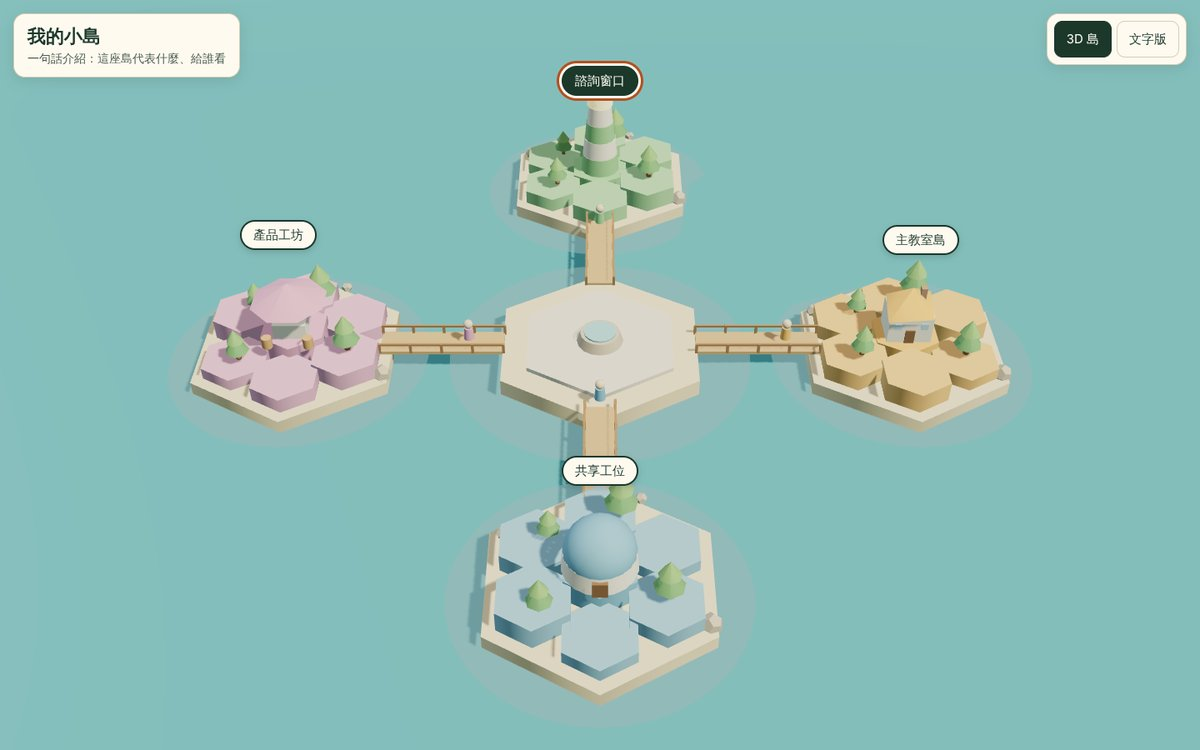
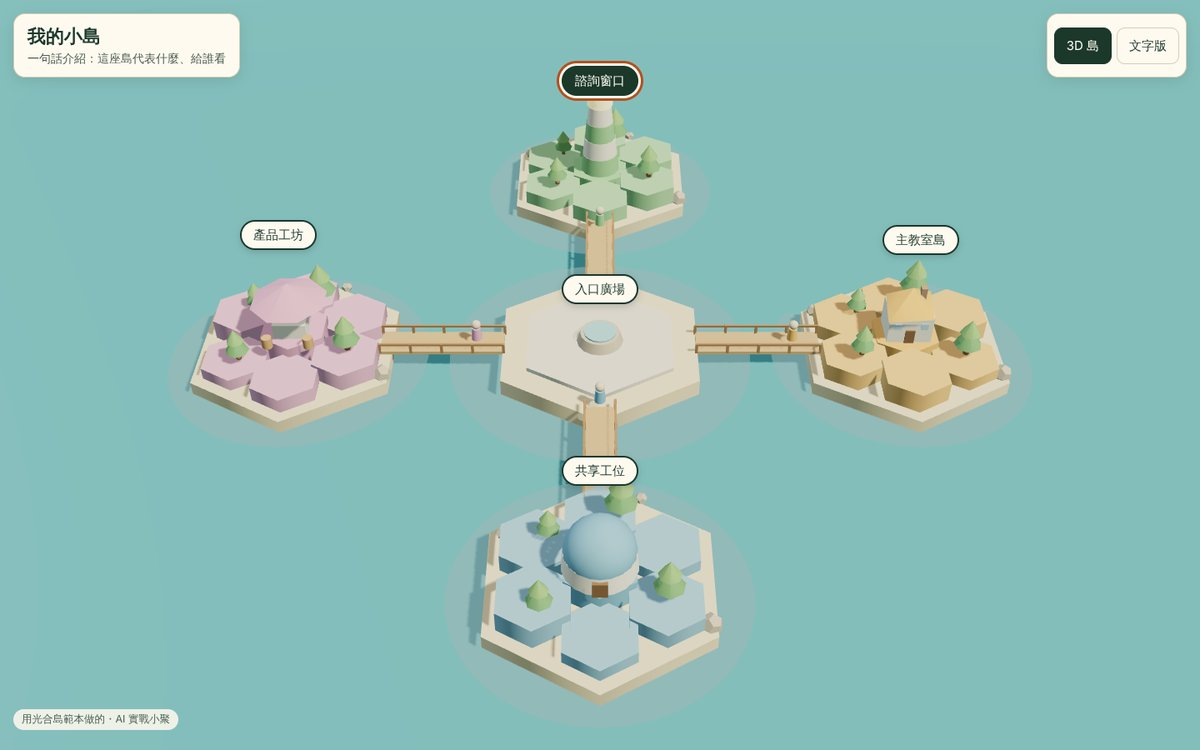
小島範本 Coco 審稿修正：中央廣場名牌、開場卡不擋島、小區塊膠囊、手機頂列同一列、出處小字
Claude-Session: https://claude.ai/code/session_014YgatbU5mzAn51EBKpoQ3J

diff --git a/範本/小島範本.html b/範本/小島範本.html
@@ -21,15 +21,17 @@ body{background:linear-gradient(#9fd3e6 0%,#cfeaf0 55%,#e9f4ee 100%)}
 .lab{position:absolute;transform:translate(-50%,-100%);background:var(--paper);color:var(--ink);border:2px solid var(--ink);border-radius:999px;padding:0 14px;font:700 14px/1 inherit;font-family:inherit;white-space:nowrap;pointer-events:auto;cursor:pointer;min-height:36px;min-width:44px;box-shadow:0 3px 8px rgba(20,40,30,.18)}
 .lab:hover,.lab:focus-visible,.lab.on{background:var(--ink);color:var(--paper);outline:none}
 .lab:focus-visible{box-shadow:0 0 0 3px var(--paper),0 0 0 6px var(--accent)}
-header{position:fixed;left:16px;top:16px;right:16px;display:flex;gap:10px;align-items:flex-start;flex-wrap:wrap;pointer-events:none}
+header{position:fixed;left:16px;top:16px;right:16px;display:flex;gap:10px;align-items:stretch;pointer-events:none}
+header>.card:first-child{flex:0 1 auto;min-width:0}
+.credit{position:fixed;left:16px;bottom:12px;font-size:12.5px;color:var(--muted);background:rgba(255,250,240,.85);padding:4px 10px;border-radius:999px;pointer-events:none}
 .card{background:var(--paper);border:1px solid var(--line);border-radius:14px;padding:12px 16px;box-shadow:0 4px 16px rgba(20,40,30,.12);pointer-events:auto}
 h1{margin:0;font-size:22px}
 .sub{margin:2px 0 0;color:var(--muted);font-size:14px}
-.tabs{display:flex;gap:6px;margin-left:auto;padding:8px}
+.tabs{display:flex;gap:6px;margin-left:auto;padding:8px;flex:none;align-items:center}
 button{font:inherit;font-size:15px;min-height:44px;min-width:44px;padding:0 14px;border-radius:10px;border:1px solid var(--line);background:var(--paper);color:var(--ink);cursor:pointer}
 button[aria-pressed="true"],button.main{background:var(--ink);color:var(--paper);border-color:var(--ink)}
 button:focus-visible{outline:3px solid var(--accent);outline-offset:2px}
-#intro{position:fixed;left:50%;top:50%;transform:translate(-50%,-50%);width:min(380px,calc(100% - 32px));text-align:center;padding:22px 20px 18px}
+#intro{position:fixed;left:50%;bottom:24px;transform:translateX(-50%);width:min(380px,calc(100% - 32px));text-align:center;padding:22px 20px 18px}
 #intro h2{margin:0 0 4px;font-size:24px}
 #intro .nums{display:flex;flex-wrap:wrap;gap:8px;justify-content:center;margin:14px 0 16px;padding:0;list-style:none}
 #intro .nums li{background:#f2ead8;border-radius:10px;padding:8px 12px;font-size:15px;font-weight:700}
@@ -39,17 +41,21 @@ button:focus-visible{outline:3px solid var(--accent);outline-offset:2px}
 #panel{position:fixed;right:16px;bottom:16px;width:min(340px,calc(100% - 32px));max-height:50vh;overflow:auto}
 #panel h2{margin:0 0 6px;font-size:18px}
 #panel p{margin:0 0 8px;font-size:15px;line-height:1.6}
-#panel ul{margin:0;padding-left:20px;font-size:15px;line-height:1.7}
+#panel ul{margin:4px 0 0;padding:0;list-style:none;display:flex;flex-wrap:wrap;gap:8px}
+#panel li{display:inline-flex;align-items:center;min-height:36px;padding:0 14px;border-radius:18px;background:#f3eedf;border:1px solid var(--line);font-size:14px;font-weight:700}
 .close{float:right;margin:-4px -6px 0 8px}
 #text{position:fixed;inset:96px 16px 16px;overflow:auto;max-width:720px;margin:0 auto}
 #text h2{font-size:18px;margin:16px 0 4px}
 #text p,#text li{font-size:15px;line-height:1.7}
 .foot{font-size:13px;color:var(--muted);margin-top:16px}
 [hidden]{display:none!important}
+@media (min-width:601px){#intro{left:16px;transform:none;bottom:48px;text-align:left}#intro .nums,#intro .row{justify-content:flex-start}}
 @media (max-width:600px){
   #panel{left:16px;right:16px;width:auto;max-height:40vh}
   #tourBar{bottom:12px}
-  h1{font-size:19px}.lab{font-size:13px;padding:0 10px}
+  h1{font-size:18px}.sub{font-size:13px}.lab{font-size:13px;padding:0 10px}
+  header .card{padding:10px 12px}.tabs{padding:6px;gap:4px}.tabs button{padding:0 10px;font-size:14px}
+  #intro{bottom:16px}.credit{display:none}
 }
 </style>
 </head>
@@ -71,6 +77,8 @@ button:focus-visible{outline:3px solid var(--accent);outline-offset:2px}
   <ul class="nums" id="nums"></ul>
   <div class="row"><button id="explore">自己逛逛</button><button id="tour" class="main">跟著導覽</button></div>
 </section>
+
+<p class="credit">用光合島範本做的・AI 實戰小聚</p>
 
 <div id="tourBar" class="card" hidden>
   <span id="tourStep" aria-live="polite"></span>
@@ -96,7 +104,9 @@ const ISLAND = {
   name: '我的小島',
   intro: '一句話介紹：這座島代表什麼、給誰看',
   // 第一層：打開就看到的數字，只放最重要的 2～3 個（只寫可以公開的）
-  numbers: ['4 座島', '本月 10 場活動'],
+  numbers: ['4 座島', '【改成你的數字】'],
+  // 中間那座廣場叫什麼（例如你的品牌名、店名）
+  center: '入口廣場',
   // 每座島：名字、在做什麼、裡面的小區塊、顏色、地標（house 房子／tower 燈塔／tent 帳篷／dome 圓頂，不寫就自動挑）
   isles: [
     { name: '諮詢窗口', what: '第一次來的人先到這裡', blocks: ['櫃台', '等候區'], color: '#6fbf73', landmark: 'tower' },
@@ -252,6 +262,13 @@ function start() {
     return { d, g, lift, lab, pos: new THREE.Vector3(x, 0, z), labY: top + 2.6 };
   });
 
+  // 中央廣場也有名牌：點了看整座島的介紹
+  const hubLab = document.createElement('button'); hubLab.className = 'lab'; hubLab.textContent = ISLAND.center || '入口廣場';
+  hubLab.setAttribute('aria-label', `${hubLab.textContent}：看島的介紹`);
+  hubLab.onclick = () => { cur = -1; isles.forEach(o => o.lab.classList.remove('on')); $('pt').textContent = hubLab.textContent; $('pd').textContent = ISLAND.intro;
+    $('pb').innerHTML = (ISLAND.numbers || []).map(b => `<li>${esc(b)}</li>`).join(''); $('panel').hidden = false; $('intro').hidden = true; stopTour(); flyTo(new THREE.Vector3(), homeDist * 0.55); };
+  $('labels').insertBefore(hubLab, $('labels').firstChild);
+
   /* ---------- 雲和小船 ---------- */
   const clouds = [...Array(5)].map((_, i) => {
     const c = new THREE.Group(); const cm = M('#ffffff', { roughness: 1, transparent: true, opacity: 0.92 });
@@ -351,6 +368,7 @@ function start() {
     ctl.update();
     renderer.render(scene, cam);
     const hide = !$('text').hidden;
+    v.set(0, 1.5, 0).project(cam); hubLab.style.display = hide || v.z > 1 ? 'none' : ''; hubLab.style.left = (v.x + 1) / 2 * innerWidth + 'px'; hubLab.style.top = (1 - v.y) / 2 * innerHeight + 'px';
     isles.forEach(o => {
       v.copy(o.pos); v.y = o.labY + o.lift.position.y; v.project(cam);
       o.lab.style.display = hide || v.z > 1 ? 'none' : '';
